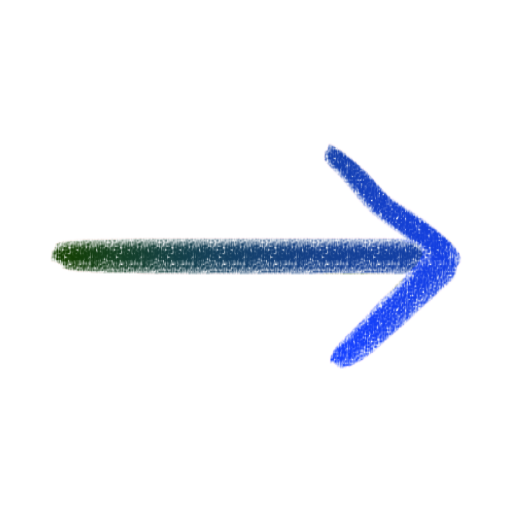
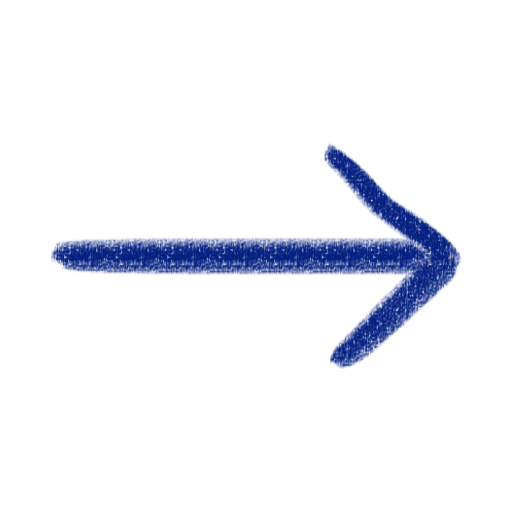
调整压缩算法

Changed region(s): [[0.0938, 0.2812, 0.9062, 0.7188]]

diff --git a/Assets/Scripts/Tools/Editor/RGBAMaskWindow.cs b/Assets/Scripts/Tools/Editor/RGBAMaskWindow.cs
@@ -98,11 +98,19 @@ public class RGBAMaskWindow : EditorWindow
                 Texture2D.DestroyImmediate(png);
                 png = null;
                 RenderTexture.active = old;
-                //AssetDatabase.ImportAsset(path);
-
+                AssetDatabase.ImportAsset(path);
+                
                 TextureImporter importer = AssetImporter.GetAtPath(path) as TextureImporter;
                 importer.textureType = TextureImporterType.Sprite;
-                AssetDatabase.ImportAsset(path);
+                importer.isReadable = true;
+                importer.mipmapEnabled = false;
+                importer.wrapMode = TextureWrapMode.Clamp;
+                importer.npotScale = TextureImporterNPOTScale.None;
+                TextureImporterPlatformSettings texSetting = importer.GetDefaultPlatformTextureSettings();
+                texSetting.format = TextureImporterFormat.RGBA32;
+                texSetting.resizeAlgorithm = TextureResizeAlgorithm.Mitchell;
+                importer.SetPlatformTextureSettings(texSetting);
+                importer.SaveAndReimport();
             }
         }
 
